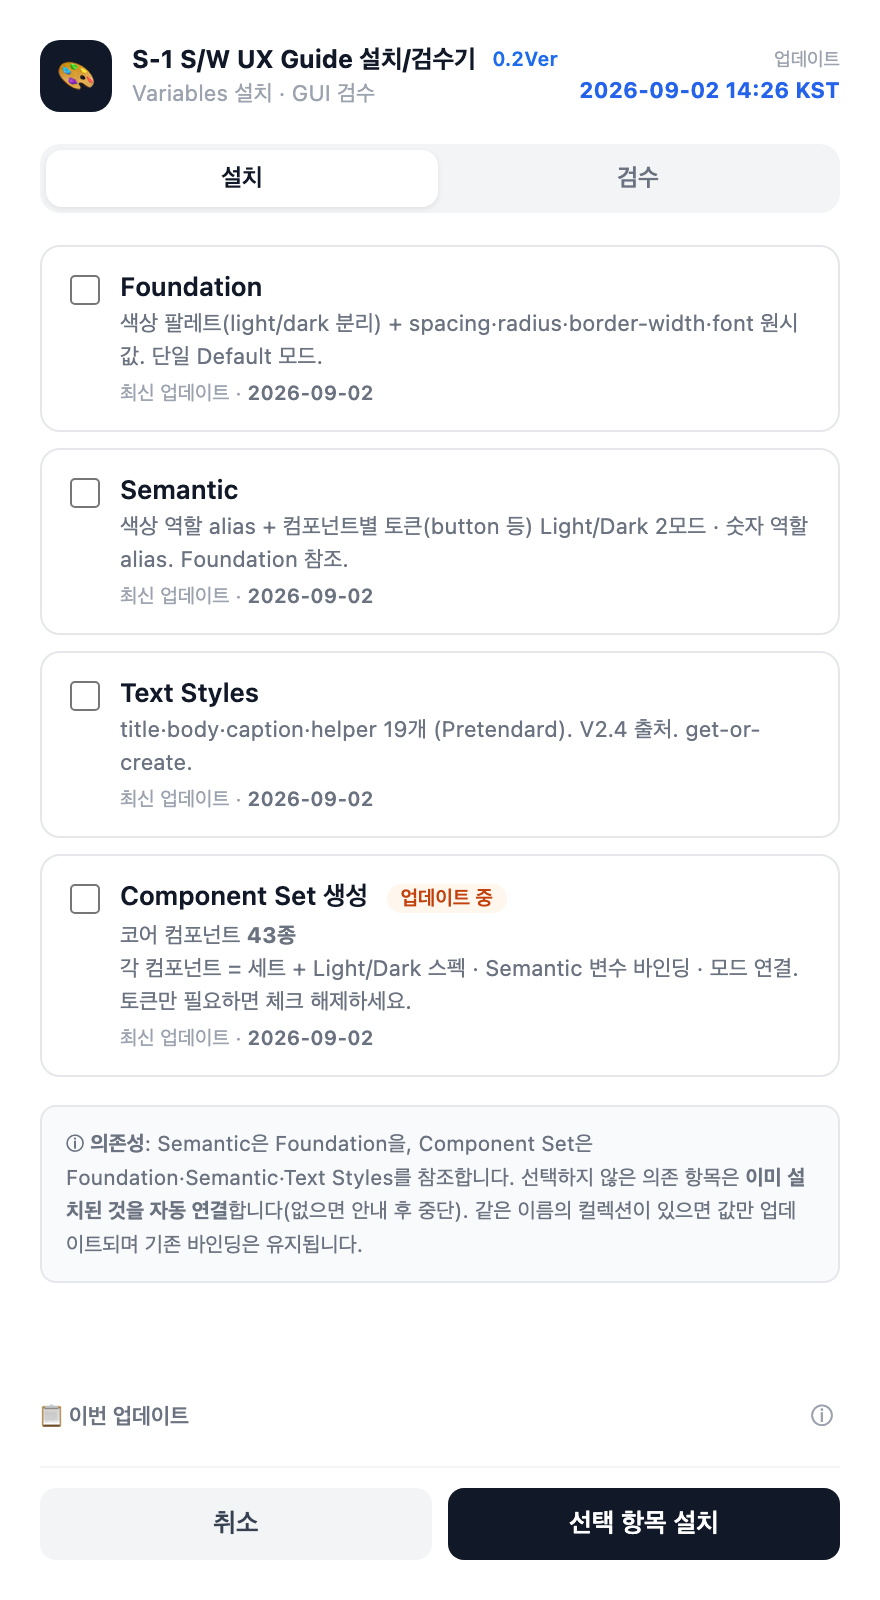
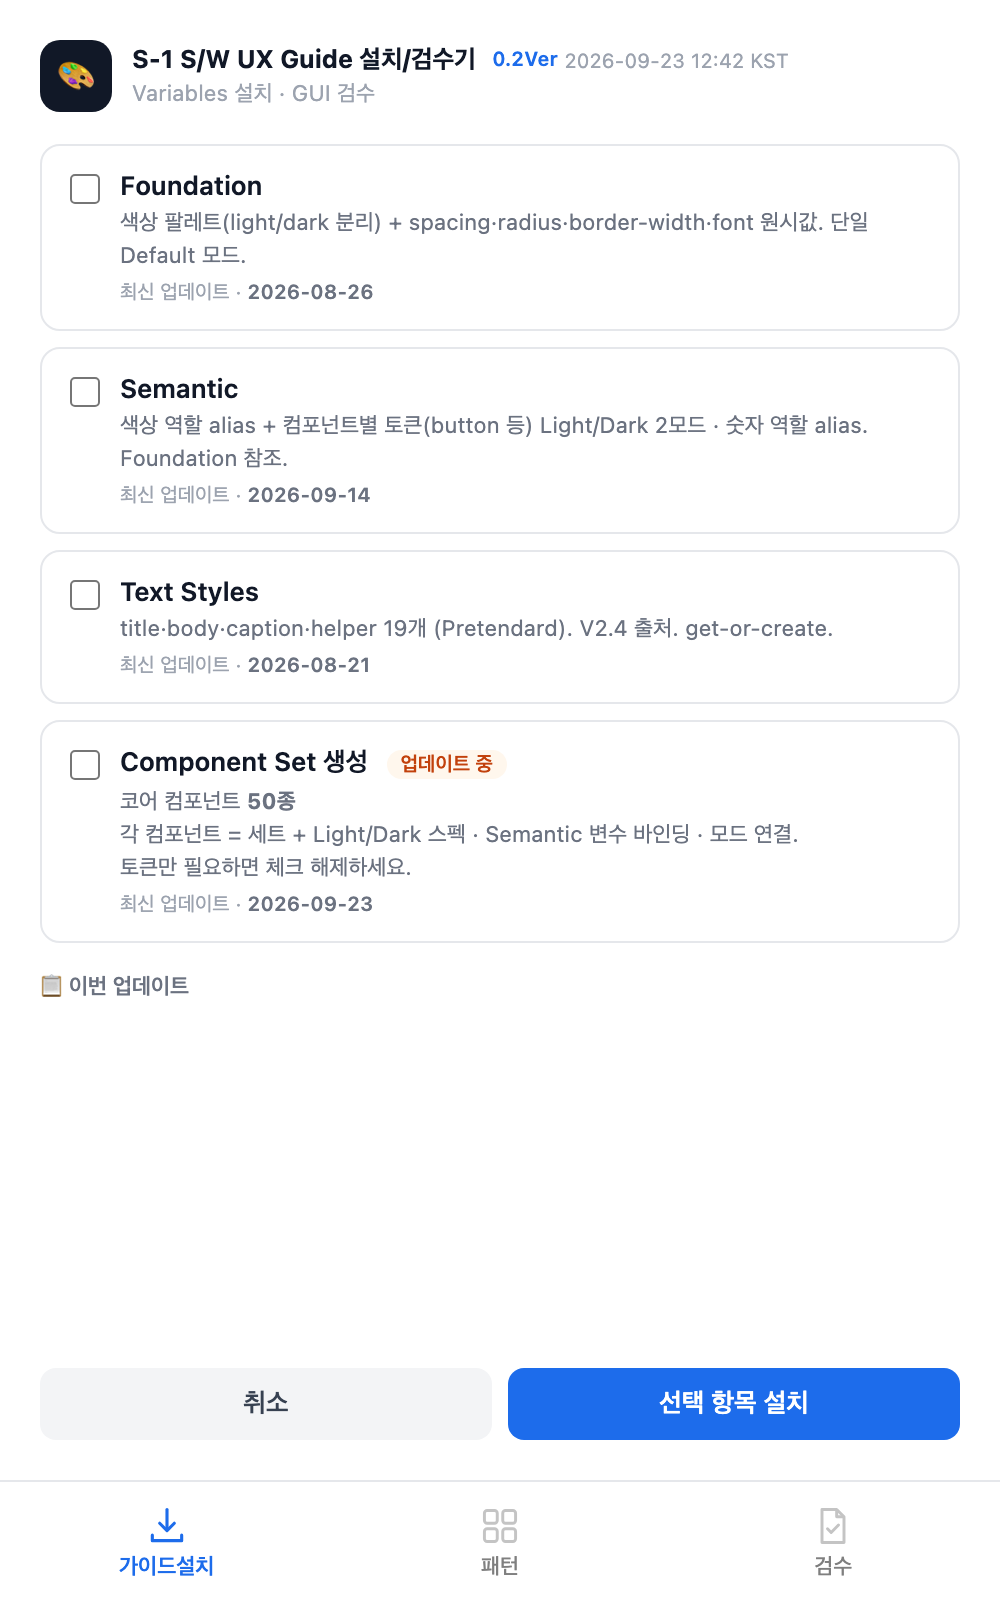
fix(site): 설치/검수기 카드 — 업데이트 날짜와 설치 탭 화면을 지금 것으로
river 지적 2026-09-23: 사이트 카드가 9/14 에 멈춰 있고 화면 그림도 옛것이었다.
· 업데이트 스탬프 재생성(zip·DESIGN.core.md 기준) — 9/14 → 9/23
· 설치 탭 그림 = 지금 플러그인(50종·하단 내비바·안내 문구 제거 반영)

검수 탭 그림은 그대로 둔다 — 그 화면은 Figma 에 붙어 있어야 내용이 나와
헤드리스로는 빈 화면만 나온다. river 가 실물에서 한 장 찍어 주면 교체한다.

diff --git a/pages/install-prompt.html b/pages/install-prompt.html
@@ -432,7 +432,7 @@
               <div>
                 <div class="step-title">디자인가이드 저장소 받기</div>
               </div>
-              <span class="update-stamp" data-update-file="design/DESIGN.core.md"><svg width="11" height="11" viewBox="0 0 24 24" fill="none" stroke="currentColor" stroke-width="2"><circle cx="12" cy="12" r="10"/><polyline points="12 6 12 12 16 14"/></svg> 업데이트 2026-09-14 17:17</span>
+              <span class="update-stamp" data-update-file="design/DESIGN.core.md"><svg width="11" height="11" viewBox="0 0 24 24" fill="none" stroke="currentColor" stroke-width="2"><circle cx="12" cy="12" r="10"/><polyline points="12 6 12 12 16 14"/></svg> 업데이트 2026-09-23 12:39</span>
             </div>
             <div class="step-body">
               <div class="file-card">
@@ -991,7 +991,7 @@ auto r  = S1_RADIUS_CONTROL_SM;   // 4.0f</code></pre>
               <div>
                 <div style="display:flex;align-items:center;gap:10px;flex-wrap:wrap;">
                   <div class="step-title">S-1 S/W UX Guide 설치/검수기 <span class="ver-badge">0.2Ver</span></div>
-                  <span class="update-stamp" style="margin-left:0;" data-update-file="assets/downloads/s1-ux-design-guide-installer.zip"><svg width="11" height="11" viewBox="0 0 24 24" fill="none" stroke="currentColor" stroke-width="2"><circle cx="12" cy="12" r="10"/><polyline points="12 6 12 12 16 14"/></svg> 업데이트 2026-09-14 16:24</span>
+                  <span class="update-stamp" style="margin-left:0;" data-update-file="assets/downloads/s1-ux-design-guide-installer.zip"><svg width="11" height="11" viewBox="0 0 24 24" fill="none" stroke="currentColor" stroke-width="2"><circle cx="12" cy="12" r="10"/><polyline points="12 6 12 12 16 14"/></svg> 업데이트 2026-09-23 12:41</span>
                 </div>
               </div>
               <a class="download-btn" style="margin-left:auto;" href="../assets/downloads/s1-ux-design-guide-installer.zip" download>
